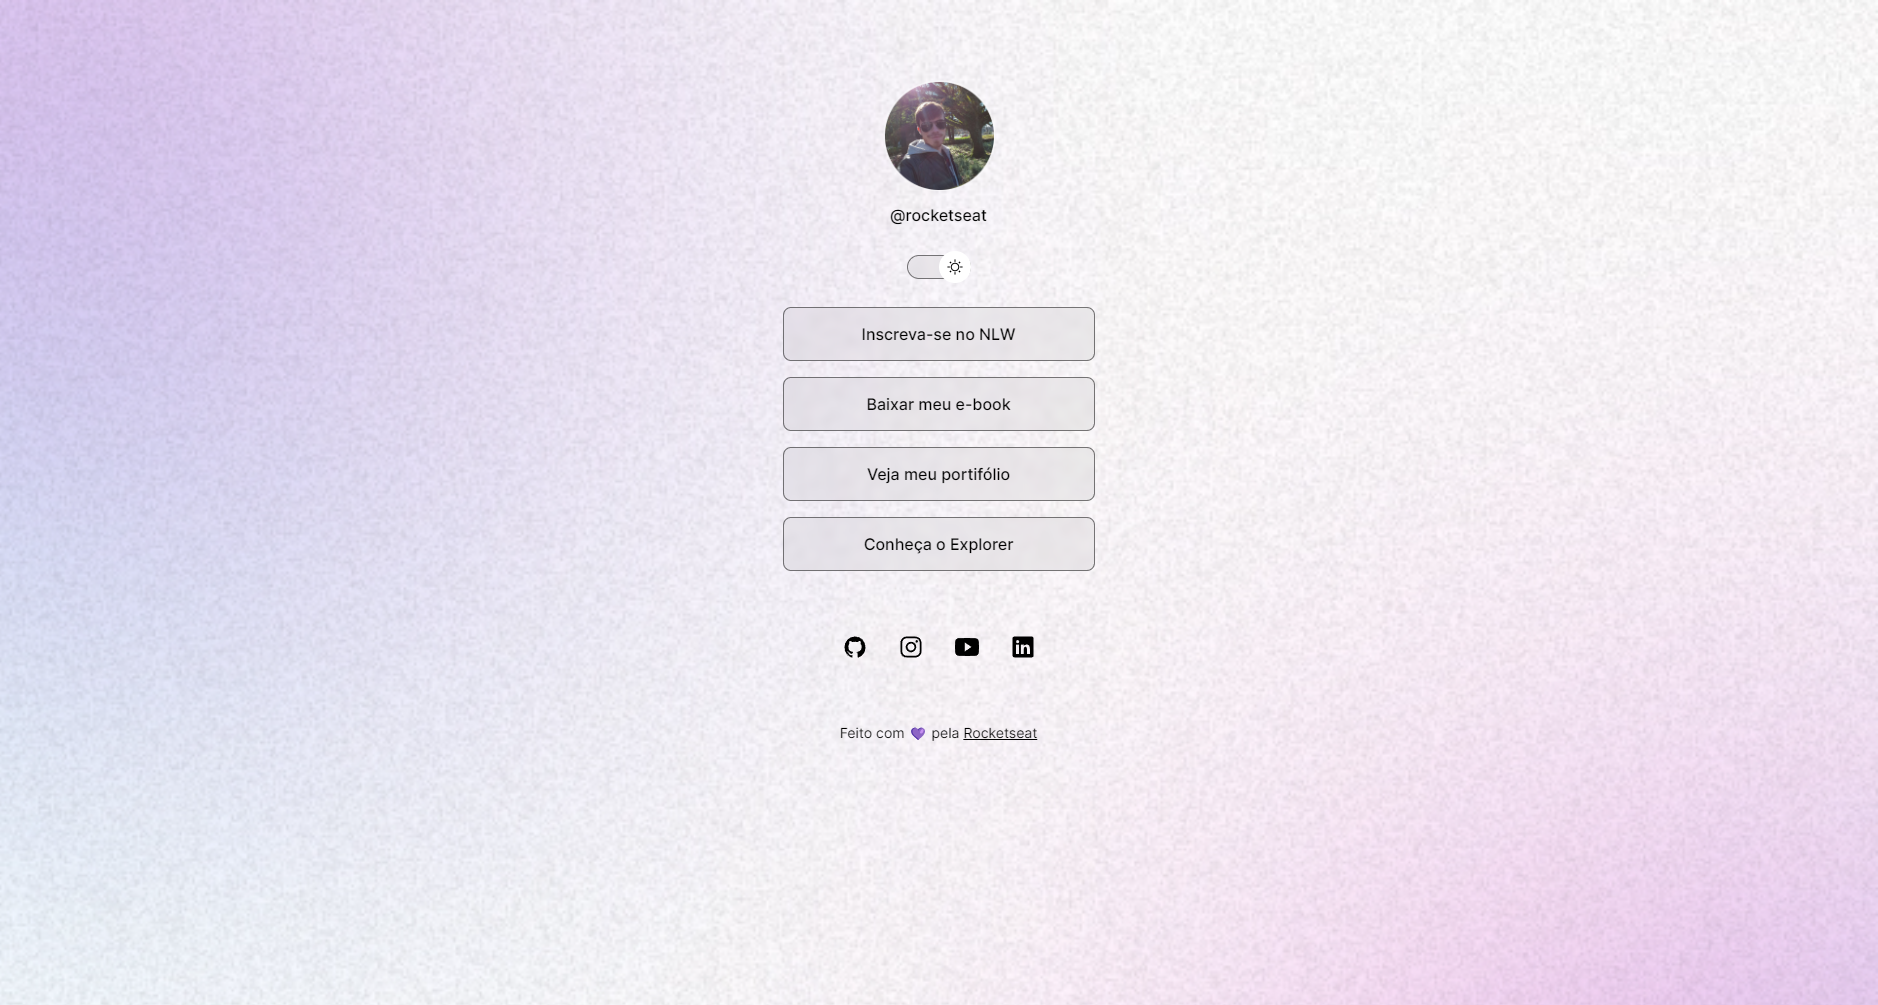
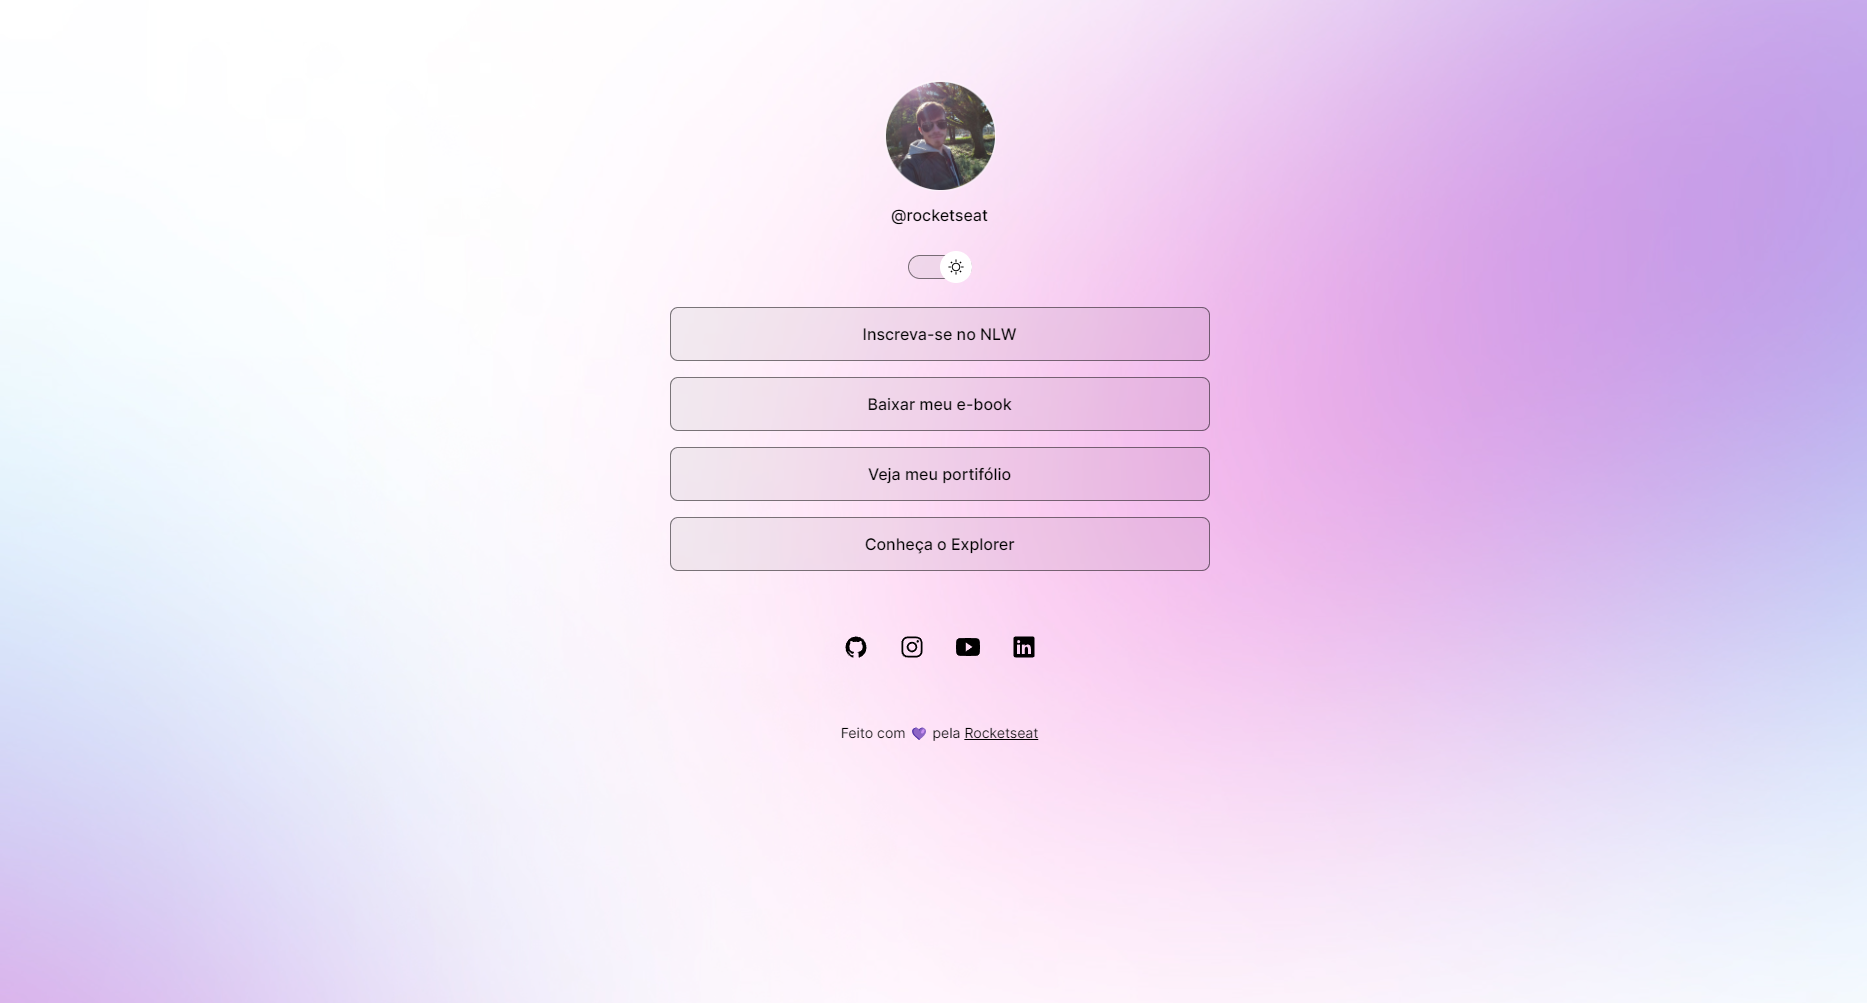
pequenas mudanças e ajuste do projeto com media queries

diff --git a/style.css b/style.css
@@ -1,164 +1,175 @@
 /* border: 1px solid red;  -- borda para vizualizar as caixas */
 * {
-    margin: 0;
-    padding: 0;
-    box-sizing: border-box;
+  margin: 0;
+  padding: 0;
+  box-sizing: border-box;
 }
 
 :root {
-    --text-color: white;
-    --bg-url: url("./assets/mobile-bgdarkmode.jpg");
-    --stroke-color: rgba(255, 255, 255, 0.5);
-    --surface-color: rgba(255, 255, 255, 0.05);
-    --surface-color-hover: rgba(0, 0, 0, 0.02);
-    --highlight-color: rgba(255, 255, 255, 0.2);
-    --button-image: url(./assets/moon-stars.svg);
+  --text-color: white;
+  --bg-url: url("./assets/mobile-bgdarkmode.jpg");
+  --stroke-color: rgba(255, 255, 255, 0.5);
+  --surface-color: rgba(255, 255, 255, 0.05);
+  --surface-color-hover: rgba(0, 0, 0, 0.02);
+  --highlight-color: rgba(255, 255, 255, 0.2);
+  --button-image: url(./assets/moon-stars.svg);
 }
 
 .light {
-    --text-color: black;
-    --bg-url: url("./assets/mobile-bglightmode.jpg");
-    --stroke-color: rgba(0, 0, 0, 0.5);
-    --surface-color: rgba(0, 0, 0, 0.05);
-    --surface-color-hover: rgba(0, 0, 0, 0.02);
-    --highlight-color: rgba(0, 0, 0, 0.1);
-    --button-image: url(./assets/sun.svg);
+  --text-color: black;
+  --bg-url: url("./assets/mobile-bglightmode.jpg");
+  --stroke-color: rgba(0, 0, 0, 0.5);
+  --surface-color: rgba(0, 0, 0, 0.05);
+  --surface-color-hover: rgba(0, 0, 0, 0.02);
+  --highlight-color: rgba(0, 0, 0, 0.1);
+  --button-image: url(./assets/sun.svg);
 }
 
 body * {
-    font-family: 'Inter', sans-serif;
-    color: var(--text-color);
+  font-family: "Inter", sans-serif;
+  color: var(--text-color);
 }
 
 body {
-    background: var(--bg-url) no-repeat top center/cover;
+  background: var(--bg-url) no-repeat top center/cover;
+  height: 100vh;
 }
 
 #container {
-    width: 360px;
-    margin: 56px auto 0;
-    padding: 0 24px;
+  width: 100%;
+  max-width: 588px;
+  margin: 56px auto 0;
+  padding: 0 24px;
 }
 
 /* Profile */
 #profile {
-    text-align: center;
-    padding: 24px;
+  text-align: center;
+  padding: 24px;
 }
 
 /* poderia alinhar também da seguinte forma: definir o elemento como display block e alinhar a margin: auto */
 #profile img {
-    width: 112px;
+  width: 112px;
 }
 
 #profile p {
-    font-weight: 500;
-    line-height: 24px;
-    margin-top: 8px;
+  font-weight: 500;
+  line-height: 24px;
+  margin-top: 8px;
 }
 
 /* switch */
 
 #switch {
-    width: 64px;
-    position: relative;
-    margin: 4px auto;
+  width: 64px;
+  position: relative;
+  margin: 4px auto;
 }
 
 #switch button {
-    height: 32px;
-    width: 32px;
-    border-radius: 50%;
-    background: white var(--button-image) no-repeat center;
-    border: 0;
+  height: 32px;
+  width: 32px;
+  border-radius: 50%;
+  background: white var(--button-image) no-repeat center;
+  border: 0;
 
-    position: absolute;
-    left: 0;
-    top: 50%;
-    z-index: 1;
-    transform: translateY(-50%);
-
+  position: absolute;
+  left: 0;
+  top: 50%;
+  z-index: 1;
+  transform: translateY(-50%);
 }
 
 #switch span {
-    display: block;
-    height: 24px;
-    width: 64px;
-    background: var(--surface-color);
-    border: 1px solid var(--stroke-color);
-    backdrop-filter: blur(4px);
-    -webkit-backdrop-filter: blur(4px);
-    border-radius: 9999px;
+  display: block;
+  height: 24px;
+  width: 64px;
+  background: var(--surface-color);
+  border: 1px solid var(--stroke-color);
+  backdrop-filter: blur(4px);
+  -webkit-backdrop-filter: blur(4px);
+  border-radius: 9999px;
 }
 
 .light #switch button {
-    right: 0;
-    left: initial;
-    transition: right 0.2s;
+  right: 0;
+  left: initial;
+  transition: right 0.2s;
 }
 
 /* links */
 
 ul {
-    list-style: none;
-    display: flex;
-    flex-direction: column;
-    gap: 16px;
-    padding: 24px 0px;
+  list-style: none;
+  display: flex;
+  flex-direction: column;
+  gap: 16px;
+  padding: 24px 0px;
 }
 
-ul li a{
-    display: flex;
-    align-items: center;
-    justify-content: center;
+ul li a {
+  display: flex;
+  align-items: center;
+  justify-content: center;
 
-    padding: 16px 24px;
+  padding: 16px 24px;
 
-    background: var(--surface-color);
-    border: 1px solid var(--stroke-color);
-    backdrop-filter: blur(4px);
-    -webkit-backdrop-filter: blur(4px); /*aplica webkit por causa do safari 9*/
-    border-radius: 8px;
+  background: var(--surface-color);
+  border: 1px solid var(--stroke-color);
+  backdrop-filter: blur(4px);
+  -webkit-backdrop-filter: blur(4px); /*aplica webkit por causa do safari 9*/
+  border-radius: 8px;
 
-    text-decoration: none;
-    font-weight: 500;
+  text-decoration: none;
+  font-weight: 500;
 
-    /* suavizando a animação de hover */
-    transition: background 0.2s;
+  /* suavizando a animação de hover */
+  transition: background 0.2s;
 }
 
 /* pseudo selector */
 ul li a:hover {
-    background: var(--surface-color-hover);
-    border: 1.5px solid var(--text-color);
+  background: var(--surface-color-hover);
+  border: 1.5px solid var(--text-color);
 }
 
 /* social links */
 
 #social-links {
-    display: flex;
-    justify-content: center;
-    padding: 24px 0px;
-    font-size: 24px;
+  display: flex;
+  justify-content: center;
+  padding: 24px 0px;
+  font-size: 24px;
 }
 
 #social-links a {
-    display: flex;
-    align-items: center;
-    justify-content: center;
-    padding: 16px;
+  display: flex;
+  align-items: center;
+  justify-content: center;
+  padding: 16px;
 
-    transition: background 0.2s;
-    border-radius: 50%;
+  transition: background 0.2s;
+  border-radius: 50%;
 }
 
 #social-links a:hover {
-    background: var(--highlight-color);
+  background: var(--highlight-color);
 }
 
 footer {
-    text-align: center;
-    padding: 24px 0px;
-    font-size: 14px;
-    font-weight: 400px;
+  text-align: center;
+  padding: 24px 0px;
+  font-size: 14px;
+  font-weight: 400px;
+}
+
+@media (min-width: 700px) {
+  :root {
+    --bg-url: url("./assets/desktopbg-darkmode.jpg");
+  }
+
+  .light {
+    --bg-url: url("./assets/desktopbg-lightmode.jpg");
+  }
 }
